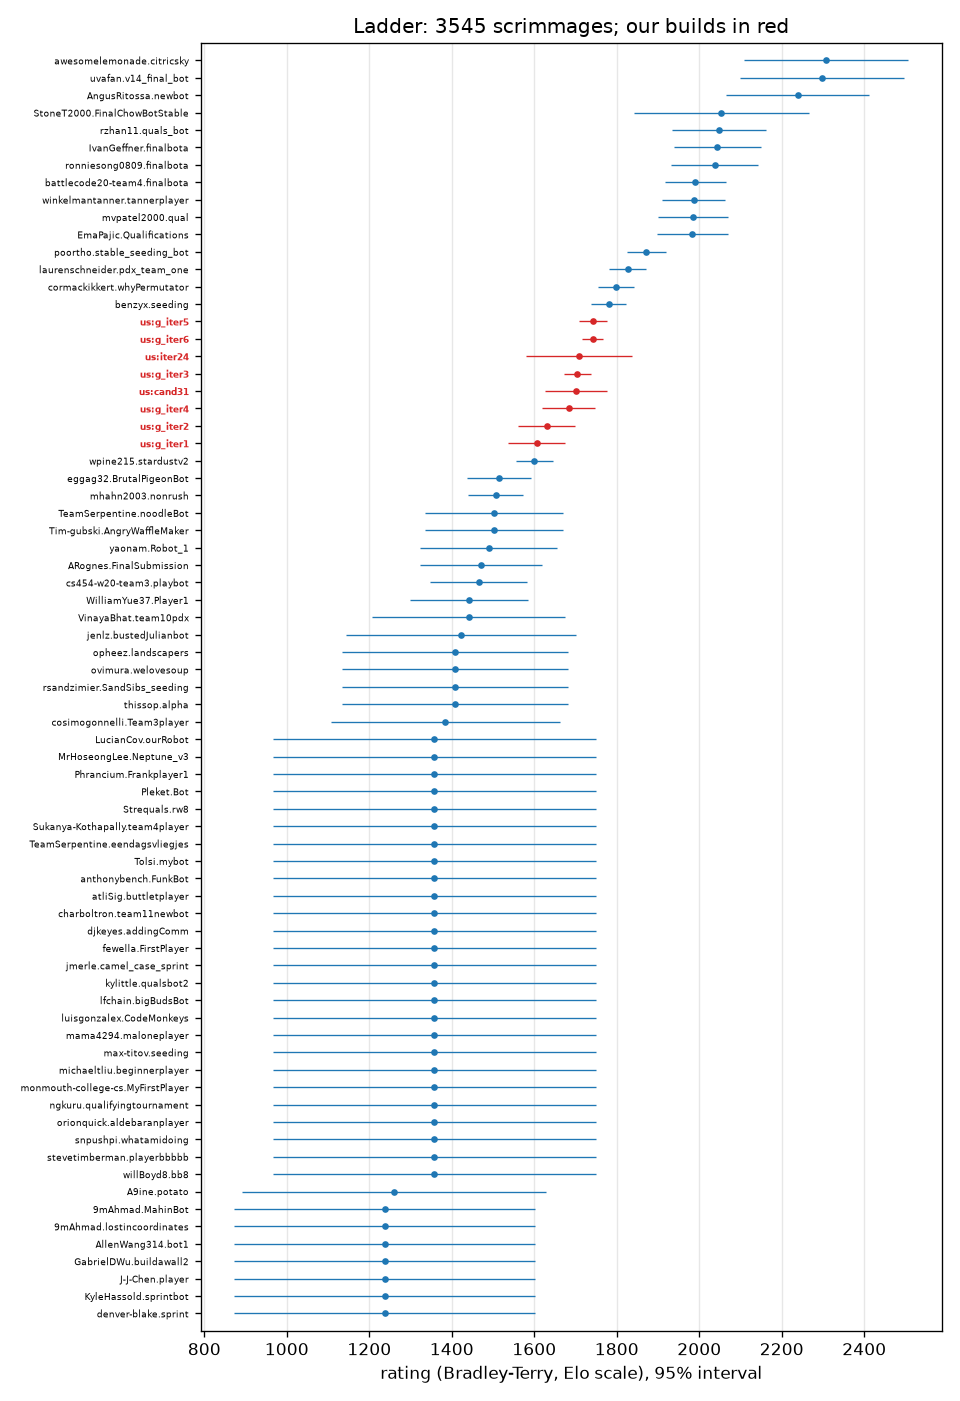
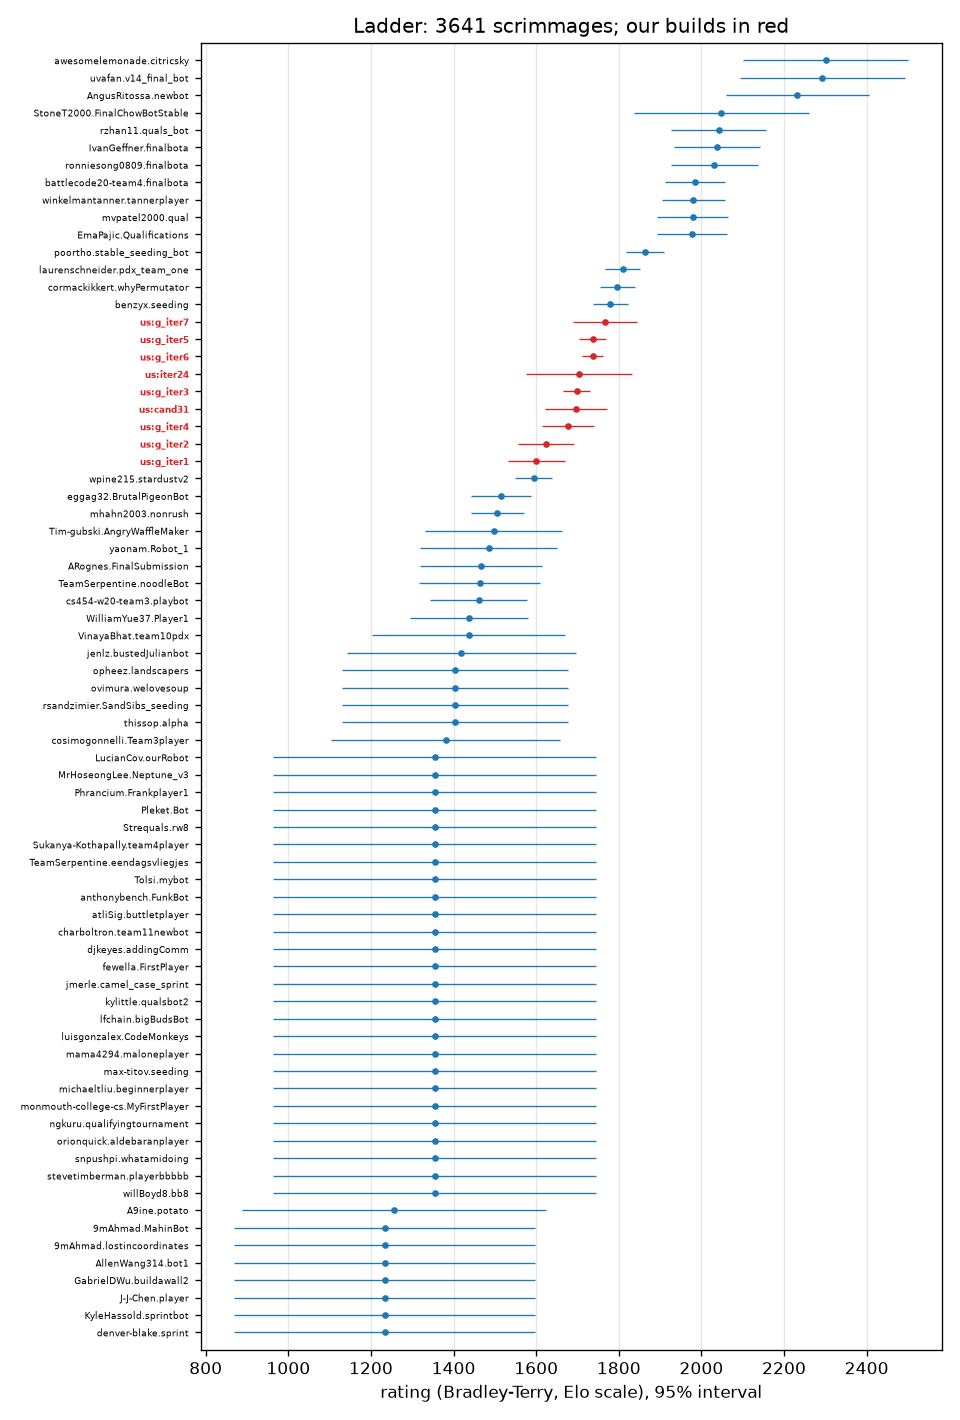
Blocks 70-71 (g_iter7's first grade) and regr7; ladder files; blocks 72-73 running
Claude-Session: https://claude.ai/code/session_015tNyF5ucwWW1mudpEQTT25

diff --git a/progress/ELO.md b/progress/ELO.md
@@ -1,92 +1,94 @@
 # Ladder
 
-3545 scrimmages (ours only), 3021 distinct (a repeated pairing with the same seed replays the same game and counts once), rated by a batch Bradley-Terry fit on the Elo scale (`tools/elolib.py`); each of our builds is its own player. 65 of 65 ladder bots met.
+3641 scrimmages (ours only), 3117 distinct (a repeated pairing with the same seed replays the same game and counts once), rated by a batch Bradley-Terry fit on the Elo scale (`tools/elolib.py`); each of our builds is its own player. 65 of 65 ladder bots met.
 
 Our builds (rating +- 95%; field score = expected score against every ladder bot, one game each):
 
 | build | rating | rank | games | record | field score |
 |---|---|---|---|---|---|
-| g_iter5 | 1743 +- 33 | 16 of 73 | 618 | 329-289 | 72.9% |
-| g_iter6 | 1742 +- 25 | 17 of 73 | 886 | 450-436 | 72.9% |
-| iter24 | 1709 +- 128 | 18 of 73 | 46 | 11-35 | 70.8% |
-| g_iter3 | 1705 +- 32 | 19 of 73 | 796 | 167-629 | 70.4% |
-| cand31 | 1701 +- 76 | 20 of 73 | 96 | 52-44 | 70.2% |
-| g_iter4 | 1683 +- 63 | 21 of 73 | 217 | 43-174 | 68.9% |
-| g_iter2 | 1630 +- 68 | 22 of 73 | 192 | 44-148 | 64.9% |
-| g_iter1 | 1606 +- 70 | 23 of 73 | 170 | 95-75 | 62.9% |
+| g_iter7 | 1766 +- 77 | 16 of 74 | 96 | 60-36 | 74.7% |
+| g_iter5 | 1737 +- 33 | 17 of 74 | 618 | 329-289 | 72.9% |
+| g_iter6 | 1736 +- 25 | 18 of 74 | 886 | 450-436 | 72.9% |
+| iter24 | 1704 +- 128 | 19 of 74 | 46 | 11-35 | 70.7% |
+| g_iter3 | 1699 +- 32 | 20 of 74 | 796 | 167-629 | 70.3% |
+| cand31 | 1697 +- 76 | 21 of 74 | 96 | 52-44 | 70.2% |
+| g_iter4 | 1677 +- 63 | 22 of 74 | 217 | 43-174 | 68.8% |
+| g_iter2 | 1624 +- 68 | 23 of 74 | 192 | 44-148 | 64.8% |
+| g_iter1 | 1600 +- 70 | 24 of 74 | 170 | 95-75 | 62.8% |
 
 | rank | player | rating | +- 95% | games | W-L |
 |---|---|---|---|---|---|
-| 1 | awesomelemonade.citricsky | 2307 | 200 | 103 | 101-2 |
-| 2 | uvafan.v14_final_bot | 2298 | 200 | 98 | 96-2 |
-| 3 | AngusRitossa.newbot | 2238 | 174 | 95 | 92-3 |
-| 4 | StoneT2000.FinalChowBotStable | 2054 | 212 | 21 | 19-2 |
-| 5 | rzhan11.quals_bot | 2048 | 115 | 86 | 77-9 |
-| 6 | IvanGeffner.finalbota | 2044 | 105 | 101 | 90-11 |
-| 7 | ronniesong0809.finalbota | 2037 | 105 | 97 | 86-11 |
-| 8 | battlecode20-team4.finalbota | 1991 | 73 | 154 | 129-25 |
-| 9 | winkelmantanner.tannerplayer | 1986 | 76 | 140 | 117-23 |
-| 10 | mvpatel2000.qual | 1985 | 86 | 115 | 97-18 |
-| 11 | EmaPajic.Qualifications | 1983 | 86 | 113 | 95-18 |
-| 12 | poortho.stable_seeding_bot | 1872 | 48 | 245 | 173-72 |
-| 13 | laurenschneider.pdx_team_one | 1826 | 44 | 260 | 168-92 |
-| 14 | cormackikkert.whyPermutator | 1798 | 44 | 253 | 154-99 |
-| 15 | benzyx.seeding | 1780 | 43 | 256 | 150-106 |
-| 16 | **us:g_iter5** | 1743 | 33 | 618 | 329-289 |
-| 17 | **us:g_iter6** | 1742 | 25 | 886 | 450-436 |
-| 18 | **us:iter24** | 1709 | 128 | 46 | 11-35 |
-| 19 | **us:g_iter3** | 1705 | 32 | 796 | 167-629 |
-| 20 | **us:cand31** | 1701 | 76 | 96 | 52-44 |
-| 21 | **us:g_iter4** | 1683 | 63 | 217 | 43-174 |
-| 22 | **us:g_iter2** | 1630 | 68 | 192 | 44-148 |
-| 23 | **us:g_iter1** | 1606 | 70 | 170 | 95-75 |
-| 24 | wpine215.stardustv2 | 1600 | 46 | 251 | 84-167 |
-| 25 | eggag32.BrutalPigeonBot | 1514 | 78 | 110 | 24-86 |
-| 26 | mhahn2003.nonrush | 1506 | 67 | 148 | 33-115 |
-| 27 | TeamSerpentine.noodleBot | 1502 | 167 | 20 | 5-15 |
-| 28 | Tim-gubski.AngryWaffleMaker | 1502 | 167 | 20 | 5-15 |
-| 29 | yaonam.Robot_1 | 1490 | 166 | 21 | 5-16 |
-| 30 | ARognes.FinalSubmission | 1471 | 148 | 31 | 6-25 |
-| 31 | cs454-w20-team3.playbot | 1466 | 117 | 50 | 10-40 |
-| 32 | WilliamYue37.Player1 | 1442 | 143 | 40 | 6-34 |
-| 33 | VinayaBhat.team10pdx | 1441 | 234 | 9 | 2-7 |
-| 34 | jenlz.bustedJulianbot | 1423 | 278 | 8 | 1-7 |
-| 35 | opheez.landscapers | 1408 | 275 | 9 | 1-8 |
-| 36 | ovimura.welovesoup | 1408 | 275 | 9 | 1-8 |
-| 37 | rsandzimier.SandSibs_seeding | 1408 | 275 | 9 | 1-8 |
-| 38 | thissop.alpha | 1408 | 275 | 9 | 1-8 |
-| 39 | cosimogonnelli.Team3player | 1385 | 278 | 7 | 1-6 |
-| 40 | LucianCov.ourRobot | 1357 | 391 | 3 | 0-3 |
-| 41 | MrHoseongLee.Neptune_v3 | 1357 | 391 | 3 | 0-3 |
-| 42 | Phrancium.Frankplayer1 | 1357 | 391 | 3 | 0-3 |
-| 43 | Pleket.Bot | 1357 | 391 | 3 | 0-3 |
-| 44 | Strequals.rw8 | 1357 | 391 | 3 | 0-3 |
-| 45 | Sukanya-Kothapally.team4player | 1357 | 391 | 3 | 0-3 |
-| 46 | TeamSerpentine.eendagsvliegjes | 1357 | 391 | 3 | 0-3 |
-| 47 | Tolsi.mybot | 1357 | 391 | 3 | 0-3 |
-| 48 | anthonybench.FunkBot | 1357 | 391 | 3 | 0-3 |
-| 49 | atliSig.buttletplayer | 1357 | 391 | 3 | 0-3 |
-| 50 | charboltron.team11newbot | 1357 | 391 | 3 | 0-3 |
-| 51 | djkeyes.addingComm | 1357 | 391 | 3 | 0-3 |
-| 52 | fewella.FirstPlayer | 1357 | 391 | 3 | 0-3 |
-| 53 | jmerle.camel_case_sprint | 1357 | 391 | 3 | 0-3 |
-| 54 | kylittle.qualsbot2 | 1357 | 391 | 3 | 0-3 |
-| 55 | lfchain.bigBudsBot | 1357 | 391 | 3 | 0-3 |
-| 56 | luisgonzalex.CodeMonkeys | 1357 | 391 | 3 | 0-3 |
-| 57 | mama4294.maloneplayer | 1357 | 391 | 3 | 0-3 |
-| 58 | max-titov.seeding | 1357 | 391 | 3 | 0-3 |
-| 59 | michaeltliu.beginnerplayer | 1357 | 391 | 3 | 0-3 |
-| 60 | monmouth-college-cs.MyFirstPlayer | 1357 | 391 | 3 | 0-3 |
-| 61 | ngkuru.qualifyingtournament | 1357 | 391 | 3 | 0-3 |
-| 62 | orionquick.aldebaranplayer | 1357 | 391 | 3 | 0-3 |
-| 63 | snpushpi.whatamidoing | 1357 | 391 | 3 | 0-3 |
-| 64 | stevetimberman.playerbbbbb | 1357 | 391 | 3 | 0-3 |
-| 65 | willBoyd8.bb8 | 1357 | 391 | 3 | 0-3 |
-| 66 | A9ine.potato | 1260 | 368 | 6 | 0-6 |
-| 67 | 9mAhmad.MahinBot | 1237 | 365 | 7 | 0-7 |
-| 68 | 9mAhmad.lostincoordinates | 1237 | 365 | 7 | 0-7 |
-| 69 | AllenWang314.bot1 | 1237 | 365 | 7 | 0-7 |
-| 70 | GabrielDWu.buildawall2 | 1237 | 365 | 7 | 0-7 |
-| 71 | J-J-Chen.player | 1237 | 365 | 7 | 0-7 |
-| 72 | KyleHassold.sprintbot | 1237 | 365 | 7 | 0-7 |
-| 73 | denver-blake.sprint | 1237 | 365 | 7 | 0-7 |
+| 1 | awesomelemonade.citricsky | 2301 | 200 | 103 | 101-2 |
+| 2 | uvafan.v14_final_bot | 2292 | 200 | 98 | 96-2 |
+| 3 | AngusRitossa.newbot | 2232 | 174 | 95 | 92-3 |
+| 4 | StoneT2000.FinalChowBotStable | 2048 | 212 | 21 | 19-2 |
+| 5 | rzhan11.quals_bot | 2042 | 115 | 86 | 77-9 |
+| 6 | IvanGeffner.finalbota | 2038 | 105 | 101 | 90-11 |
+| 7 | ronniesong0809.finalbota | 2031 | 105 | 97 | 86-11 |
+| 8 | battlecode20-team4.finalbota | 1985 | 73 | 154 | 129-25 |
+| 9 | winkelmantanner.tannerplayer | 1981 | 76 | 140 | 117-23 |
+| 10 | mvpatel2000.qual | 1979 | 86 | 115 | 97-18 |
+| 11 | EmaPajic.Qualifications | 1977 | 86 | 113 | 95-18 |
+| 12 | poortho.stable_seeding_bot | 1864 | 46 | 257 | 180-77 |
+| 13 | laurenschneider.pdx_team_one | 1810 | 43 | 272 | 171-101 |
+| 14 | cormackikkert.whyPermutator | 1796 | 43 | 265 | 162-103 |
+| 15 | benzyx.seeding | 1780 | 42 | 268 | 158-110 |
+| 16 | **us:g_iter7** | 1766 | 77 | 96 | 60-36 |
+| 17 | **us:g_iter5** | 1737 | 33 | 618 | 329-289 |
+| 18 | **us:g_iter6** | 1736 | 25 | 886 | 450-436 |
+| 19 | **us:iter24** | 1704 | 128 | 46 | 11-35 |
+| 20 | **us:g_iter3** | 1699 | 32 | 796 | 167-629 |
+| 21 | **us:cand31** | 1697 | 76 | 96 | 52-44 |
+| 22 | **us:g_iter4** | 1677 | 63 | 217 | 43-174 |
+| 23 | **us:g_iter2** | 1624 | 68 | 192 | 44-148 |
+| 24 | **us:g_iter1** | 1600 | 70 | 170 | 95-75 |
+| 25 | wpine215.stardustv2 | 1594 | 45 | 263 | 87-176 |
+| 26 | eggag32.BrutalPigeonBot | 1515 | 74 | 122 | 27-95 |
+| 27 | mhahn2003.nonrush | 1506 | 64 | 160 | 36-124 |
+| 28 | Tim-gubski.AngryWaffleMaker | 1497 | 167 | 20 | 5-15 |
+| 29 | yaonam.Robot_1 | 1485 | 166 | 21 | 5-16 |
+| 30 | ARognes.FinalSubmission | 1466 | 148 | 31 | 6-25 |
+| 31 | TeamSerpentine.noodleBot | 1463 | 148 | 32 | 6-26 |
+| 32 | cs454-w20-team3.playbot | 1460 | 117 | 50 | 10-40 |
+| 33 | WilliamYue37.Player1 | 1437 | 143 | 40 | 6-34 |
+| 34 | VinayaBhat.team10pdx | 1436 | 234 | 9 | 2-7 |
+| 35 | jenlz.bustedJulianbot | 1419 | 278 | 8 | 1-7 |
+| 36 | opheez.landscapers | 1404 | 274 | 9 | 1-8 |
+| 37 | ovimura.welovesoup | 1404 | 274 | 9 | 1-8 |
+| 38 | rsandzimier.SandSibs_seeding | 1404 | 274 | 9 | 1-8 |
+| 39 | thissop.alpha | 1404 | 274 | 9 | 1-8 |
+| 40 | cosimogonnelli.Team3player | 1381 | 277 | 7 | 1-6 |
+| 41 | LucianCov.ourRobot | 1355 | 391 | 3 | 0-3 |
+| 42 | MrHoseongLee.Neptune_v3 | 1355 | 391 | 3 | 0-3 |
+| 43 | Phrancium.Frankplayer1 | 1355 | 391 | 3 | 0-3 |
+| 44 | Pleket.Bot | 1355 | 391 | 3 | 0-3 |
+| 45 | Strequals.rw8 | 1355 | 391 | 3 | 0-3 |
+| 46 | Sukanya-Kothapally.team4player | 1355 | 391 | 3 | 0-3 |
+| 47 | TeamSerpentine.eendagsvliegjes | 1355 | 391 | 3 | 0-3 |
+| 48 | Tolsi.mybot | 1355 | 391 | 3 | 0-3 |
+| 49 | anthonybench.FunkBot | 1355 | 391 | 3 | 0-3 |
+| 50 | atliSig.buttletplayer | 1355 | 391 | 3 | 0-3 |
+| 51 | charboltron.team11newbot | 1355 | 391 | 3 | 0-3 |
+| 52 | djkeyes.addingComm | 1355 | 391 | 3 | 0-3 |
+| 53 | fewella.FirstPlayer | 1355 | 391 | 3 | 0-3 |
+| 54 | jmerle.camel_case_sprint | 1355 | 391 | 3 | 0-3 |
+| 55 | kylittle.qualsbot2 | 1355 | 391 | 3 | 0-3 |
+| 56 | lfchain.bigBudsBot | 1355 | 391 | 3 | 0-3 |
+| 57 | luisgonzalex.CodeMonkeys | 1355 | 391 | 3 | 0-3 |
+| 58 | mama4294.maloneplayer | 1355 | 391 | 3 | 0-3 |
+| 59 | max-titov.seeding | 1355 | 391 | 3 | 0-3 |
+| 60 | michaeltliu.beginnerplayer | 1355 | 391 | 3 | 0-3 |
+| 61 | monmouth-college-cs.MyFirstPlayer | 1355 | 391 | 3 | 0-3 |
+| 62 | ngkuru.qualifyingtournament | 1355 | 391 | 3 | 0-3 |
+| 63 | orionquick.aldebaranplayer | 1355 | 391 | 3 | 0-3 |
+| 64 | snpushpi.whatamidoing | 1355 | 391 | 3 | 0-3 |
+| 65 | stevetimberman.playerbbbbb | 1355 | 391 | 3 | 0-3 |
+| 66 | willBoyd8.bb8 | 1355 | 391 | 3 | 0-3 |
+| 67 | A9ine.potato | 1257 | 368 | 6 | 0-6 |
+| 68 | 9mAhmad.MahinBot | 1234 | 364 | 7 | 0-7 |
+| 69 | 9mAhmad.lostincoordinates | 1234 | 364 | 7 | 0-7 |
+| 70 | AllenWang314.bot1 | 1234 | 364 | 7 | 0-7 |
+| 71 | GabrielDWu.buildawall2 | 1234 | 364 | 7 | 0-7 |
+| 72 | J-J-Chen.player | 1234 | 364 | 7 | 0-7 |
+| 73 | KyleHassold.sprintbot | 1234 | 364 | 7 | 0-7 |
+| 74 | denver-blake.sprint | 1234 | 364 | 7 | 0-7 |

diff --git a/BENCHMARK.md b/BENCHMARK.md
@@ -138,7 +138,7 @@ build with at least 200 recorded games: a candidate's short ladder arm never re-
 | `Strequals.rw_jammer` | Strequals_Battlecode2020 (228cc25) | - | - | untested |  |
 | `Sukanya-Kothapally.team4player` | Sukanya-Kothapally_MIT-Battlecode20-RADS (c18961f) | 100 | 2 | peer(>90 once) | 100 100 |
 | `TeamSerpentine.lectureplayer` | TeamSerpentine_battlecode-2020-noodles (816ad6f) | - | - | untested |  |
-| `TeamSerpentine.noodleBot` | TeamSerpentine_battlecode-2020-noodles (816ad6f) | 86 | 14 | peer | 50 67 86 |
+| `TeamSerpentine.noodleBot` | TeamSerpentine_battlecode-2020-noodles (816ad6f) | 86 | 14 | peer | 50 67 86 92 |
 | `TeamSerpentine.eendagsvliegjes` | TeamSerpentine_battlecode-2020-snakeeyes (9b812b2) | 100 | 2 | peer(>90 once) | 100 100 |
 | `TeamSerpentine.serpentineSnakeEyes` | TeamSerpentine_battlecode-2020-snakeeyes (9b812b2) | - | - | untested |  |
 | `Tim-gubski.AngryWaffleMaker` | Tim-gubski_BattleCode-2020 (c252b31) | 83 | 12 | peer | 50 100 50 83 |
@@ -171,11 +171,11 @@ build with at least 200 recorded games: a candidate's short ladder arm never re-
 | `benzyx.espada` | benzyx_bc20-waterloo (05df2e7) | - | - | untested |  |
 | `benzyx.firstplayer` | benzyx_bc20-waterloo (05df2e7) | - | - | untested |  |
 | `benzyx.kurobot` | benzyx_bc20-waterloo (05df2e7) | - | - | untested |  |
-| `benzyx.seeding` | benzyx_bc20-waterloo (05df2e7) | 41 | 120 | target | 25 17 50 40 25 45 41 33 |
+| `benzyx.seeding` | benzyx_bc20-waterloo (05df2e7) | 41 | 120 | target | 25 17 50 40 25 45 41 33 33 |
 | `benzyx.tortuga` | benzyx_bc20-waterloo (05df2e7) | - | - | untested |  |
 | `charboltron.master_player` | charboltron_pdx_battlecode_2020_team_11 (f78f1e3) | - | - | untested |  |
 | `charboltron.team11newbot` | charboltron_pdx_battlecode_2020_team_11 (f78f1e3) | 100 | 2 | peer(>90 once) | 100 100 |
-| `cormackikkert.whyPermutator` | cormackikkert_battlecode2020 (4d230c4) | 45 | 120 | target | 25 17 38 40 25 42 45 25 |
+| `cormackikkert.whyPermutator` | cormackikkert_battlecode2020 (4d230c4) | 45 | 120 | target | 25 17 38 40 25 42 45 25 33 |
 | `cormackikkert.whyPermutatorOld` | cormackikkert_battlecode2020 (4d230c4) | - | - | untested |  |
 | `cosimogonnelli.Team3player` | cosimogonnelli_CS454-554-SE (d7dc657) | 100 | 2 | peer(>90 once) | 80 100 |
 | `cs454-w20-team3.oldbot` | cs454-w20-team3_team3-bot (502c334) | - | - | untested |  |
@@ -188,7 +188,7 @@ build with at least 200 recorded games: a candidate's short ladder arm never re-
 | `djkeyes.noop` | djkeyes_battlecode20-scaffold (189c057) | - | - | untested |  |
 | `djkeyes.noopemptystubsplayer` | djkeyes_battlecode20-scaffold (189c057) | - | - | untested |  |
 | `djkeyes.pathfinding` | djkeyes_battlecode20-scaffold (189c057) | - | - | untested |  |
-| `eggag32.BrutalPigeonBot` | eggag32_Battlecode-2020 (32f905f) | 78 | 72 | peer | 100 75 78 75 |
+| `eggag32.BrutalPigeonBot` | eggag32_Battlecode-2020 (32f905f) | 78 | 72 | peer | 100 75 78 75 75 |
 | `fewella.FirstPlayer` | fewella_Battlecode2020-DOGGO (a6cd49a) | 100 | 2 | peer(>90 once) | 100 100 |
 | `jenlz.bustedJulianbot` | jenlz_battlecode-exploding-gradients (88ba625) | 88 | 8 | peer | 100 88 |
 | `jenlz.clonebot` | jenlz_battlecode-exploding-gradients (88ba625) | - | - | untested |  |
@@ -203,7 +203,7 @@ build with at least 200 recorded games: a candidate's short ladder arm never re-
 | `kylittle.deliriumv1` | kylittle_DeliriumBattlecode (17a94dd) | - | - | untested |  |
 | `kylittle.qualsbot` | kylittle_DeliriumBattlecode (17a94dd) | - | - | untested |  |
 | `kylittle.qualsbot2` | kylittle_DeliriumBattlecode (17a94dd) | 100 | 2 | peer(>90 once) | 100 100 |
-| `laurenschneider.pdx_team_one` | laurenschneider_battlecode20-PDXTeamOne (2965376) | 38 | 120 | target | 0 50 39 14 0 47 38 0 |
+| `laurenschneider.pdx_team_one` | laurenschneider_battlecode20-PDXTeamOne (2965376) | 38 | 120 | target | 0 50 39 14 0 47 38 0 75 |
 | `lfchain.bigBudsBot` | lfchain_Battlecode2020 (b026153) | 100 | 2 | peer(>90 once) | 100 100 |
 | `lfchain.fBot` | lfchain_Battlecode2020 (b026153) | - | - | untested |  |
 | `lfchain.jBot` | lfchain_Battlecode2020 (b026153) | - | - | untested |  |
@@ -223,7 +223,7 @@ build with at least 200 recorded games: a candidate's short ladder arm never re-
 | `max-titov.turtlebot` | max-titov_2020.battlecode-KFA (496103d) | - | - | untested |  |
 | `mhahn2003.bot01` | mhahn2003_bc20 (7475d5e) | - | - | untested |  |
 | `mhahn2003.lectureplayer` | mhahn2003_bc20 (7475d5e) | - | - | untested |  |
-| `mhahn2003.nonrush` | mhahn2003_bc20 (7475d5e) | 77 | 114 | peer | 25 58 80 92 77 100 |
+| `mhahn2003.nonrush` | mhahn2003_bc20 (7475d5e) | 77 | 114 | peer | 25 58 80 92 77 100 75 |
 | `mhahn2003.pure_teraform` | mhahn2003_bc20 (7475d5e) | - | - | untested |  |
 | `mhahn2003.rngform` | mhahn2003_bc20 (7475d5e) | - | - | untested |  |
 | `mhahn2003.rush` | mhahn2003_bc20 (7475d5e) | - | - | untested |  |
@@ -280,7 +280,7 @@ build with at least 200 recorded games: a candidate's short ladder arm never re-
 | `poortho.rush` | poortho_battlecode-2020 (ebbd61e) | - | - | untested |  |
 | `poortho.rush_bot` | poortho_battlecode-2020 (ebbd61e) | - | - | untested |  |
 | `poortho.stable_miner1` | poortho_battlecode-2020 (ebbd61e) | - | - | untested |  |
-| `poortho.stable_seeding_bot` | poortho_battlecode-2020 (ebbd61e) | 31 | 108 | target | 0 17 27 31 0 30 31 50 |
+| `poortho.stable_seeding_bot` | poortho_battlecode-2020 (ebbd61e) | 31 | 108 | target | 0 17 27 31 0 30 31 50 42 |
 | `ps789.dennisTestPlayer` | ps789_AZBattlecode (f1d54ab) | - | - | untested |  |
 | `ps789.phillipTestPlayer` | ps789_AZBattlecode (f1d54ab) | - | - | untested |  |
 | `ronniesong0809.finalbota` | ronniesong0809_battlecode20-RADS (1cee065) | 0 | 11 | locked | 0 18 15 7 0 0 |
@@ -328,7 +328,7 @@ build with at least 200 recorded games: a candidate's short ladder arm never re-
 | `willBoyd8.mouse` | willBoyd8_BattleDroid (4b1d4ad) | - | - | untested |  |
 | `winkelmantanner.tannerplayer` | winkelmantanner_battlecode2020_the-levee-builders (7f49f11) | 12 | 48 | locked | 0 25 15 23 0 36 12 |
 | `wpine215.stardustv1` | wpine215_battlecode (d570d57) | - | - | untested |  |
-| `wpine215.stardustv2` | wpine215_battlecode (d570d57) | 77 | 120 | peer | 0 30 50 65 100 70 77 58 |
+| `wpine215.stardustv2` | wpine215_battlecode (d570d57) | 77 | 120 | peer | 0 30 50 65 100 70 77 58 75 |
 | `yaonam.Robot_1` | yaonam_battlecode2020 (bb363f5) | 83 | 12 | peer | 62 100 83 |
 
 285 bot packages from 68 repositories.

diff --git a/HANDOFF.md b/HANDOFF.md
@@ -12,9 +12,9 @@ Read `CLAUDE.md`, then `TRAINING_ALGORITHM.md`, `RULES.md`, this file, then the 
 - **Ladder (batch Bradley-Terry over distinct games, `tools/elo.py --build B`):** g_iter6 1740 +- 41 after 432 games
   (blocks 50-58; 376 distinct), rank 17 of 72; g_iter5 1743 +- 33 (618 distinct of 720). Level: the mirror gain has not
   shown on the ladder yet.
-- **Running on the VM:** blocks 70 and 71 (`BOT=g_iter7`, seeded band blocks: the submission's first grade; post with
-  `tools/post-block.sh <run> g_iter7` and push the `progress/` files in the same commit) and `regr7` (g_iter7 vs
-  `arch_swarm`, quick set; g_iter6 was 21/24). Iterations 31 (7-25, 13-35) and 32 (77-83) rejected on 2026-09-24.
+- **Running on the VM:** blocks 72 and 73 (`BOT=g_iter7`, seeded band blocks; post with `tools/post-block.sh <run> g_iter7`
+  and push the `progress/` files in the same commit). Blocks 70-71 recorded (29/48, 31/48); regression vs `arch_swarm`
+  21/24 (g_iter6 21/24). Stop the incumbent blocks once g_iter7's interval is about +-40 (owner, PROMPTS 26).
 - **The session loop** was `/loop 30m task check. If the VM is idle and nothing is in the workqueue, start a new idea.
   Otherwise, carry on as before` -- re-create it. Keep two ladder blocks running side by side when no gate needs the VM;
   every concurrent run needs its own class tree (`CLASSES=build/classes-<name>`) or gauntlet.sh refuses.

diff --git a/TRAINING_LOG.md b/TRAINING_LOG.md
@@ -1180,6 +1180,9 @@ archetype regression `regr7` (vs `arch_swarm`, quick set; g_iter6 was 21/24) run
 since the restart: seats first (25), the rush answer with buildings off the bypass (29b), and now the miners
 kept working.
 
+Archetype regression `regr7`: **21/24** vs `arch_swarm` (g_iter6 21/24). Blocks 70-71 (`20260925-003836`, `-003842`):
+**29/48** and **31/48**; g_iter7 rating 1766 +- 77, rank 16 of 74 after 96 games. Blocks 72-73 running.
+
 ## Iteration 33 -- a deposit worth the action (2026-09-24)
 
 **Evidence** (the Iteration 32 traces): a miner beside the HQ or a refinery deposits whatever it carries every
